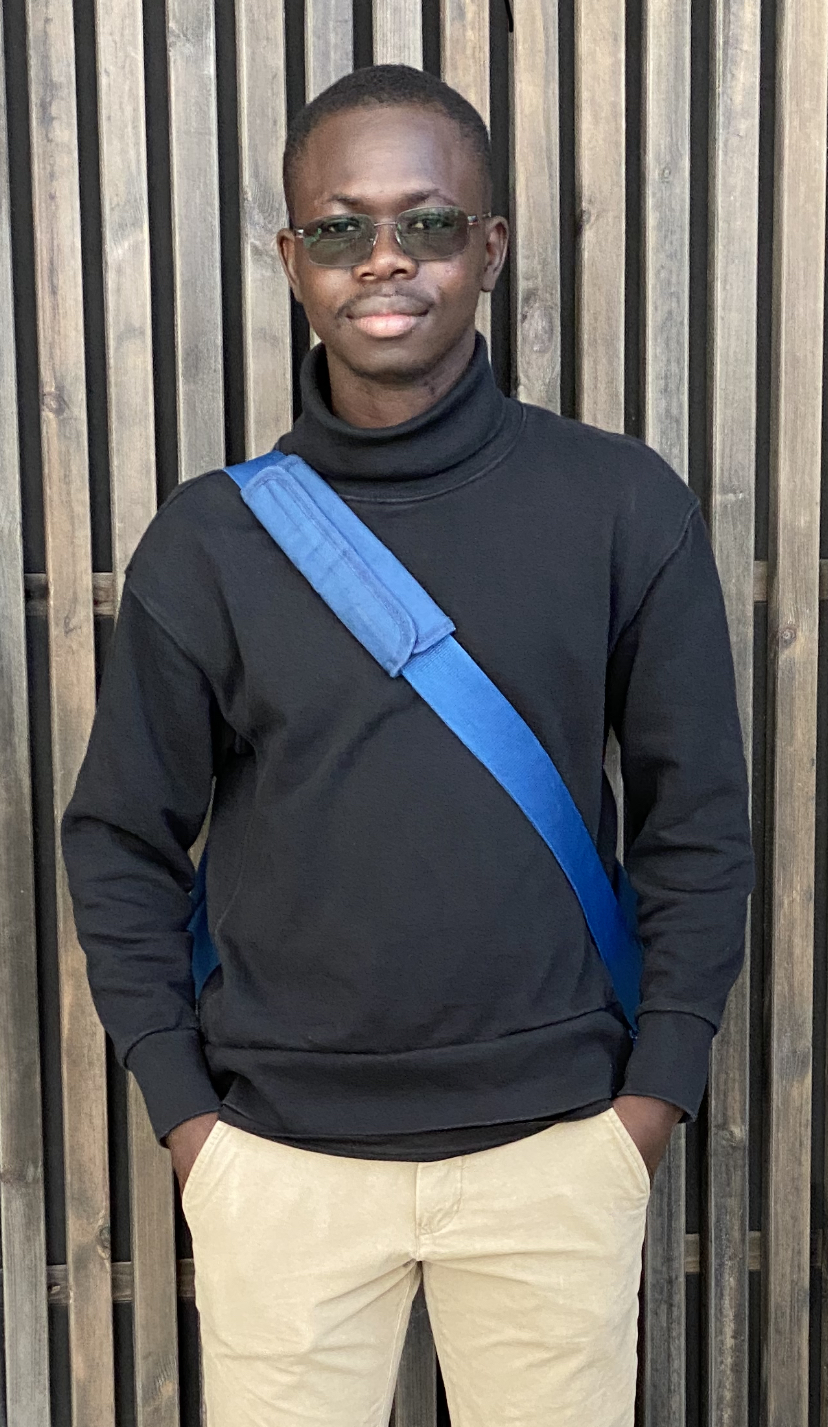
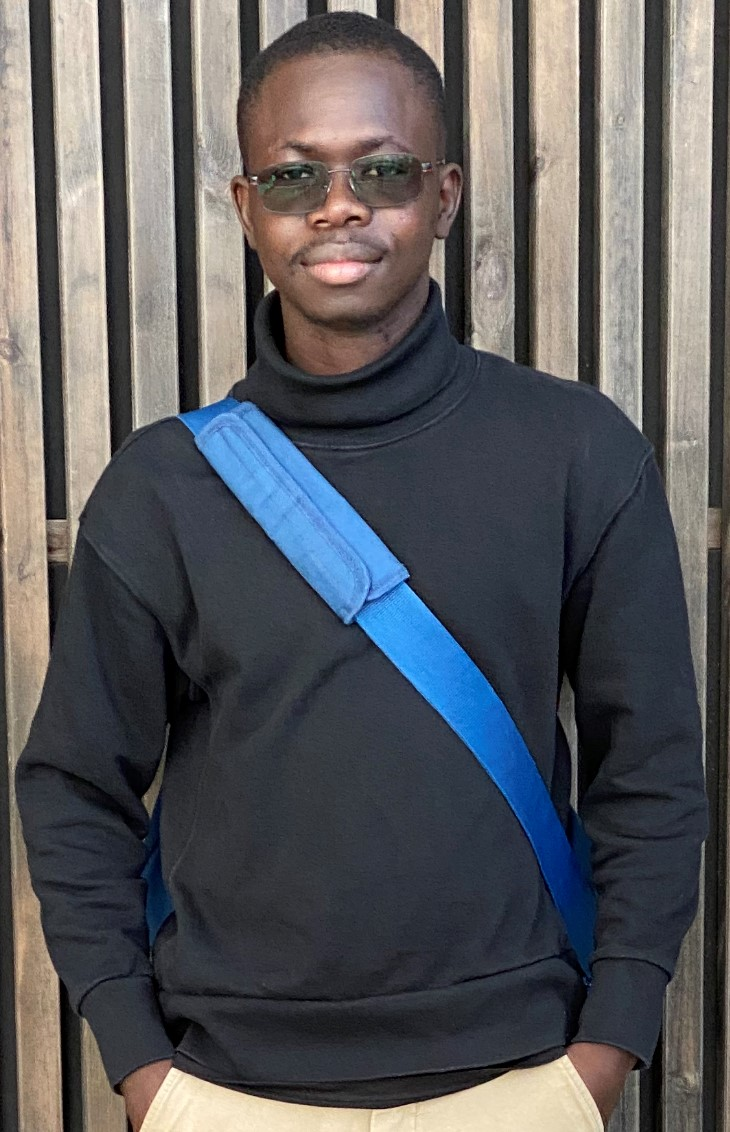
added my picture + last commit

diff --git a/src/screens/aboutMe/AboutMe.jsx b/src/screens/aboutMe/AboutMe.jsx
@@ -1,7 +1,7 @@
 import React from "react";
 import "./aboutMe.css";
-//import person from "../../images/img-srk.jpg";
-import person from "../../images/person.png";
+import person from "../../images/img-srk.jpg";
+//import person from "../../images/person.png";
 import {welcomeMsg} from "../../helpers/parcours";
 import {presentation} from "../../helpers/parcours";
 
@@ -9,7 +9,7 @@ function AboutMe() {
     return (
         <div className="about_container" id="about-me">
             <div>
-                <img src={person} alt="person icon"/>
+                <img src={person} alt="person icon" style={{width: '250px', height: '250px'}}/>
             </div>
             <div className="about_text">
                 <h1>A PROPOS DE MOI</h1>

diff --git a/src/App.css b/src/App.css
@@ -6,6 +6,7 @@
 }
 
 :root{
+    /*--nav-color: hsl(210, 89%, 45%);*/
     --nav-color: hsl(210, 11%, 15%);
     --nav-color-hover: hsl(210, 11%, 45%);
     --nav-border-color: hsl(210, 11%, 15%);
